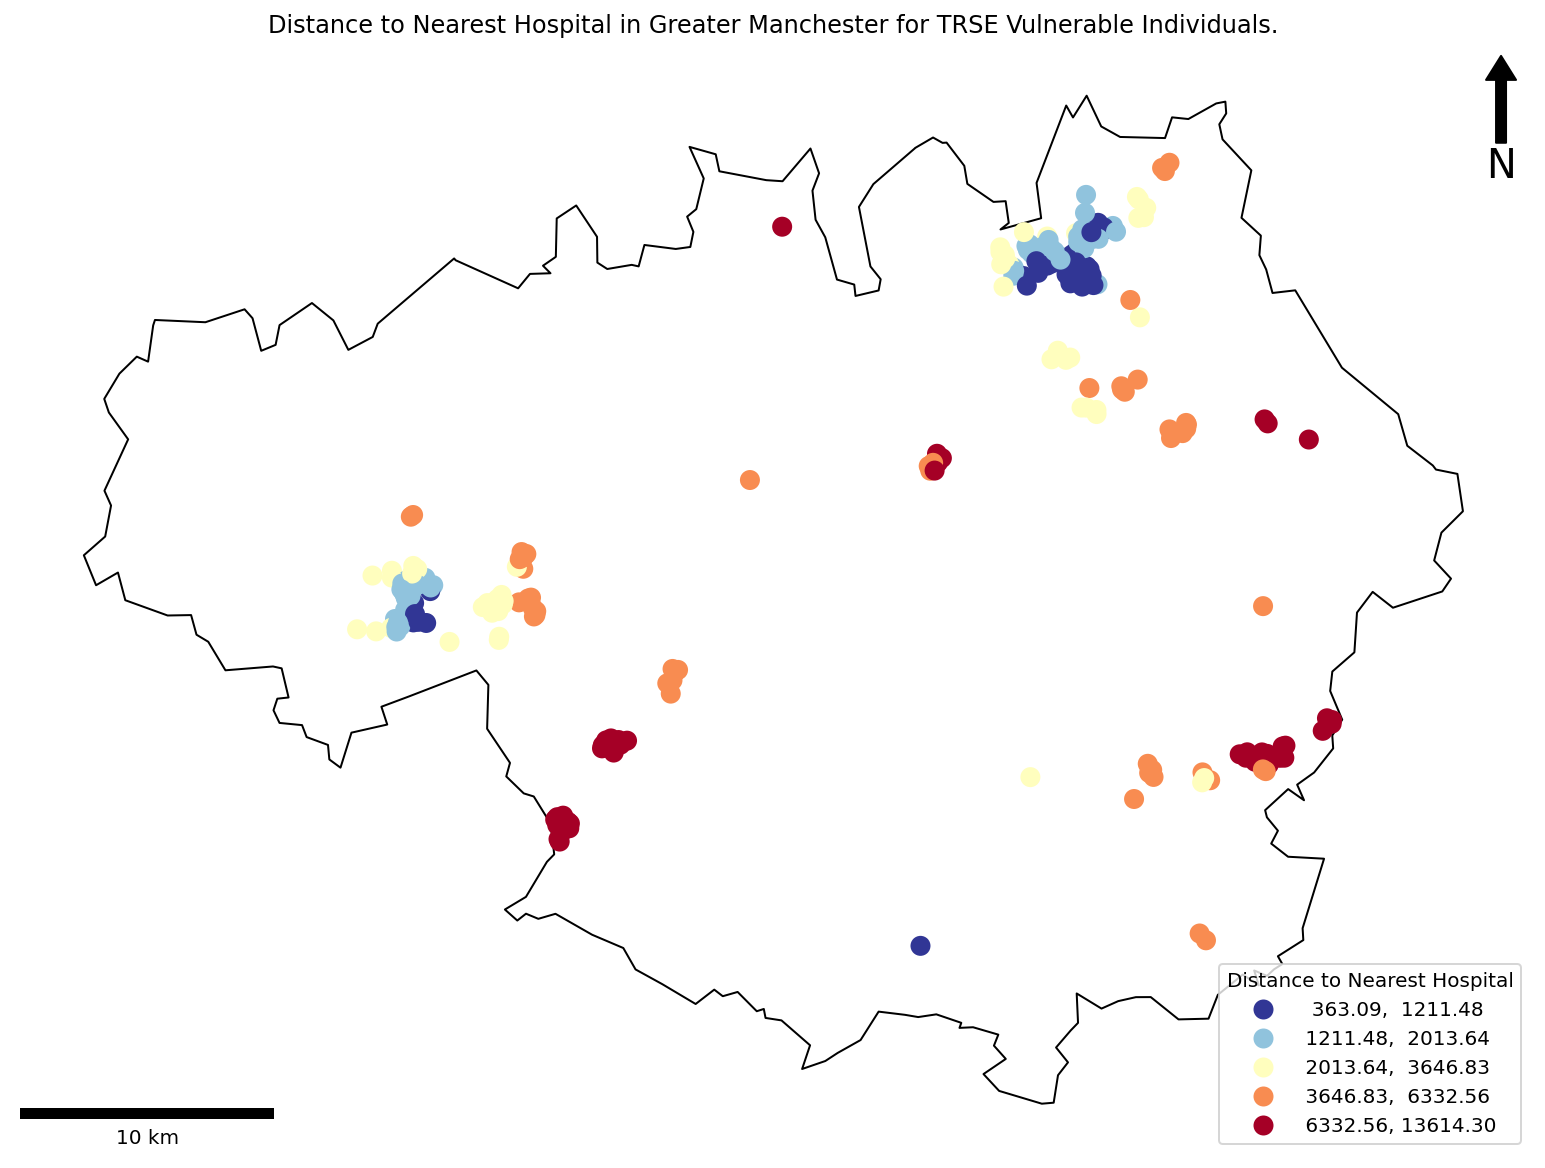
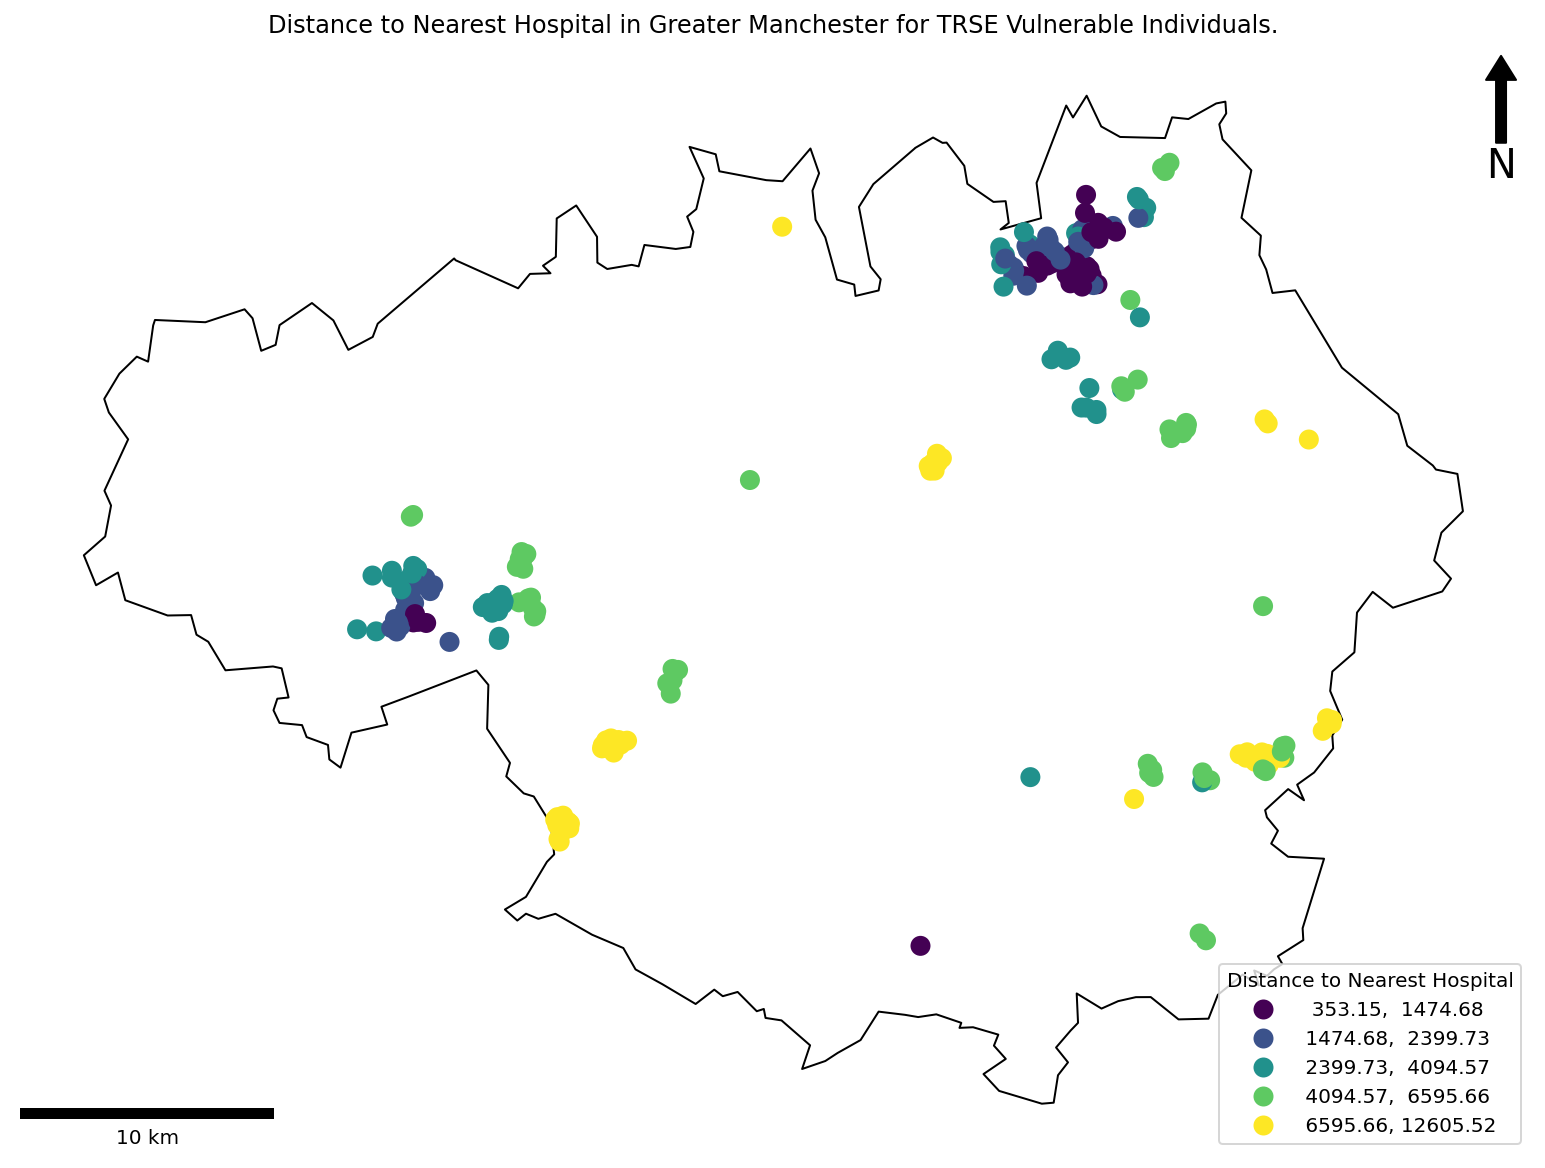
create hospitals driving map

diff --git a/hospitals_driving.py b/hospitals_driving.py
@@ -1,5 +1,5 @@
 
-# HOSPITAL WALKING NETWORK ANALYSIS
+# HOSPITAL DRIVING NETWORK ANALYSIS
 
 
 # IMPORT DATA
@@ -28,8 +28,8 @@ def ellipsoidal_distance(node_a, node_b):
 	"""
     
 	# extract the data (the coordinates) from node_a and node_b
-	point_a = walking_graph.nodes(data=True)[node_a]
-	point_b = walking_graph.nodes(data=True)[node_b]
+	point_a = driving_graph.nodes(data=True)[node_a]
+	point_b = driving_graph.nodes(data=True)[node_b]
 
 	# compute the distance across the WGS84 ellipsoid (the one used by the dataset)
 	return Geod(ellps='WGS84').inv(point_a['x'], point_a['y'], point_b['x'], point_b['y'])[2]
@@ -73,7 +73,7 @@ def path_to_linestring(start_point, path_list, end_point):
 	for n in path_list:
 
 		# get the relevant node from the graph with lat lng data
-		node = walking_graph.nodes(data=True)[n]
+		node = driving_graph.nodes(data=True)[n]
 
 		# load the lat lng data into the lineString
 		line.append([node['x'], node['y']])
@@ -239,16 +239,16 @@ hospitals = osm.features_from_polygon(gm_buffer_geom, tags = {"amenity" : "hospi
 print(f"there are {len(hospitals)} hospitals in greater manchester (+buffer).")
 
 
-# GRAPH (WALKING NETWORK)
+# GRAPH (DRIVING NETWORK)
 
 # set start time
 start_time = perf_counter()	
 
-print(f"loading graph...")
+print("loading graph...")
 
-# open walking graph (use rb not wb as it wwill write over it!!!)
-with open('walking_graph.pkl', 'rb') as input:
-    walking_graph = load(input)
+# open driving graph (use rb not wb as it wwill write over it!!!)
+with open('driving_graph.pkl', 'rb') as input:
+    driving_graph = load(input)
 
 print(f"graph loaded in: {perf_counter() - start_time} seconds")
 
@@ -256,10 +256,10 @@ print(f"graph loaded in: {perf_counter() - start_time} seconds")
 # SPATIAL INDEX (GRAPH NODES)
 
 # create a list of the nodes
-node_list = list(walking_graph.nodes())
+node_list = list(driving_graph.nodes())
 
 # create a spatial index from graph nodes
-node_idx = STRtree([Point(n[1]['x'], n[1]['y']) for n in walking_graph.nodes(data=True)])
+node_idx = STRtree([Point(n[1]['x'], n[1]['y']) for n in driving_graph.nodes(data=True)])
 
 
 # SPATIAL INDEX (HOSPITALS)
@@ -276,7 +276,7 @@ hospital_idx = STRtree(hospital_points)
 # set start time
 start_time_astar = perf_counter()	
 
-print(f"starting astar..")
+print("starting astar..")
 
 # create an empty list
 distances = []
@@ -304,7 +304,7 @@ for id, pop in worst_pop_points.iterrows():
     # use try statement to catch exceptions
     try:
        	# calculate the shortest path across the network
-       	shortest_path = astar_path(walking_graph, from_node, to_node, ellipsoidal_distance)
+       	shortest_path = astar_path(driving_graph, from_node, to_node, ellipsoidal_distance)
         
         # create a variable to store the length of the network
         path_distance = 0
@@ -313,7 +313,7 @@ for id, pop in worst_pop_points.iterrows():
         for edge_start, edge_end in zip(shortest_path[:-1], shortest_path[1:]):
             
             # store edge data
-            edge_data = walking_graph.get_edge_data(edge_start, edge_end)
+            edge_data = driving_graph.get_edge_data(edge_start, edge_end)
             
             # choose the shortest parallel edge if multiple edges exist
             path_distance += min(attr["length"] for attr in edge_data.values())
@@ -332,9 +332,9 @@ for id, pop in worst_pop_points.iterrows():
         continue
     
 # add network to the original dataframe
-worst_pop_points["hospital_walking_astar"] = distances
+worst_pop_points["hospital_driving_astar"] = distances
 
-print(f"network calculated in: {perf_counter() - start_time_astar} seconds")
+print("network calculated in: {perf_counter() - start_time_astar} seconds")
 
 # calculate mean
 mean = (sum(distances)) / (len(distances))
@@ -374,7 +374,7 @@ gm_boundary_plot.plot(
 # plot the locations, coloured by distance to hospitals
 worst_pop_points_plot.plot(
     ax = my_ax,
-    column = 'hospital_walking_astar',
+    column = 'hospital_driving_astar',
     linewidth = 0,
 	markersize = 100,
     cmap = 'viridis',

diff --git a/doctors_walking.py b/doctors_walking.py
@@ -1,0 +1,7 @@
+# -*- coding: utf-8 -*-
+"""
+Created on Tue Feb 17 15:25:34 2026
+
+@author: eveja
+"""
+
